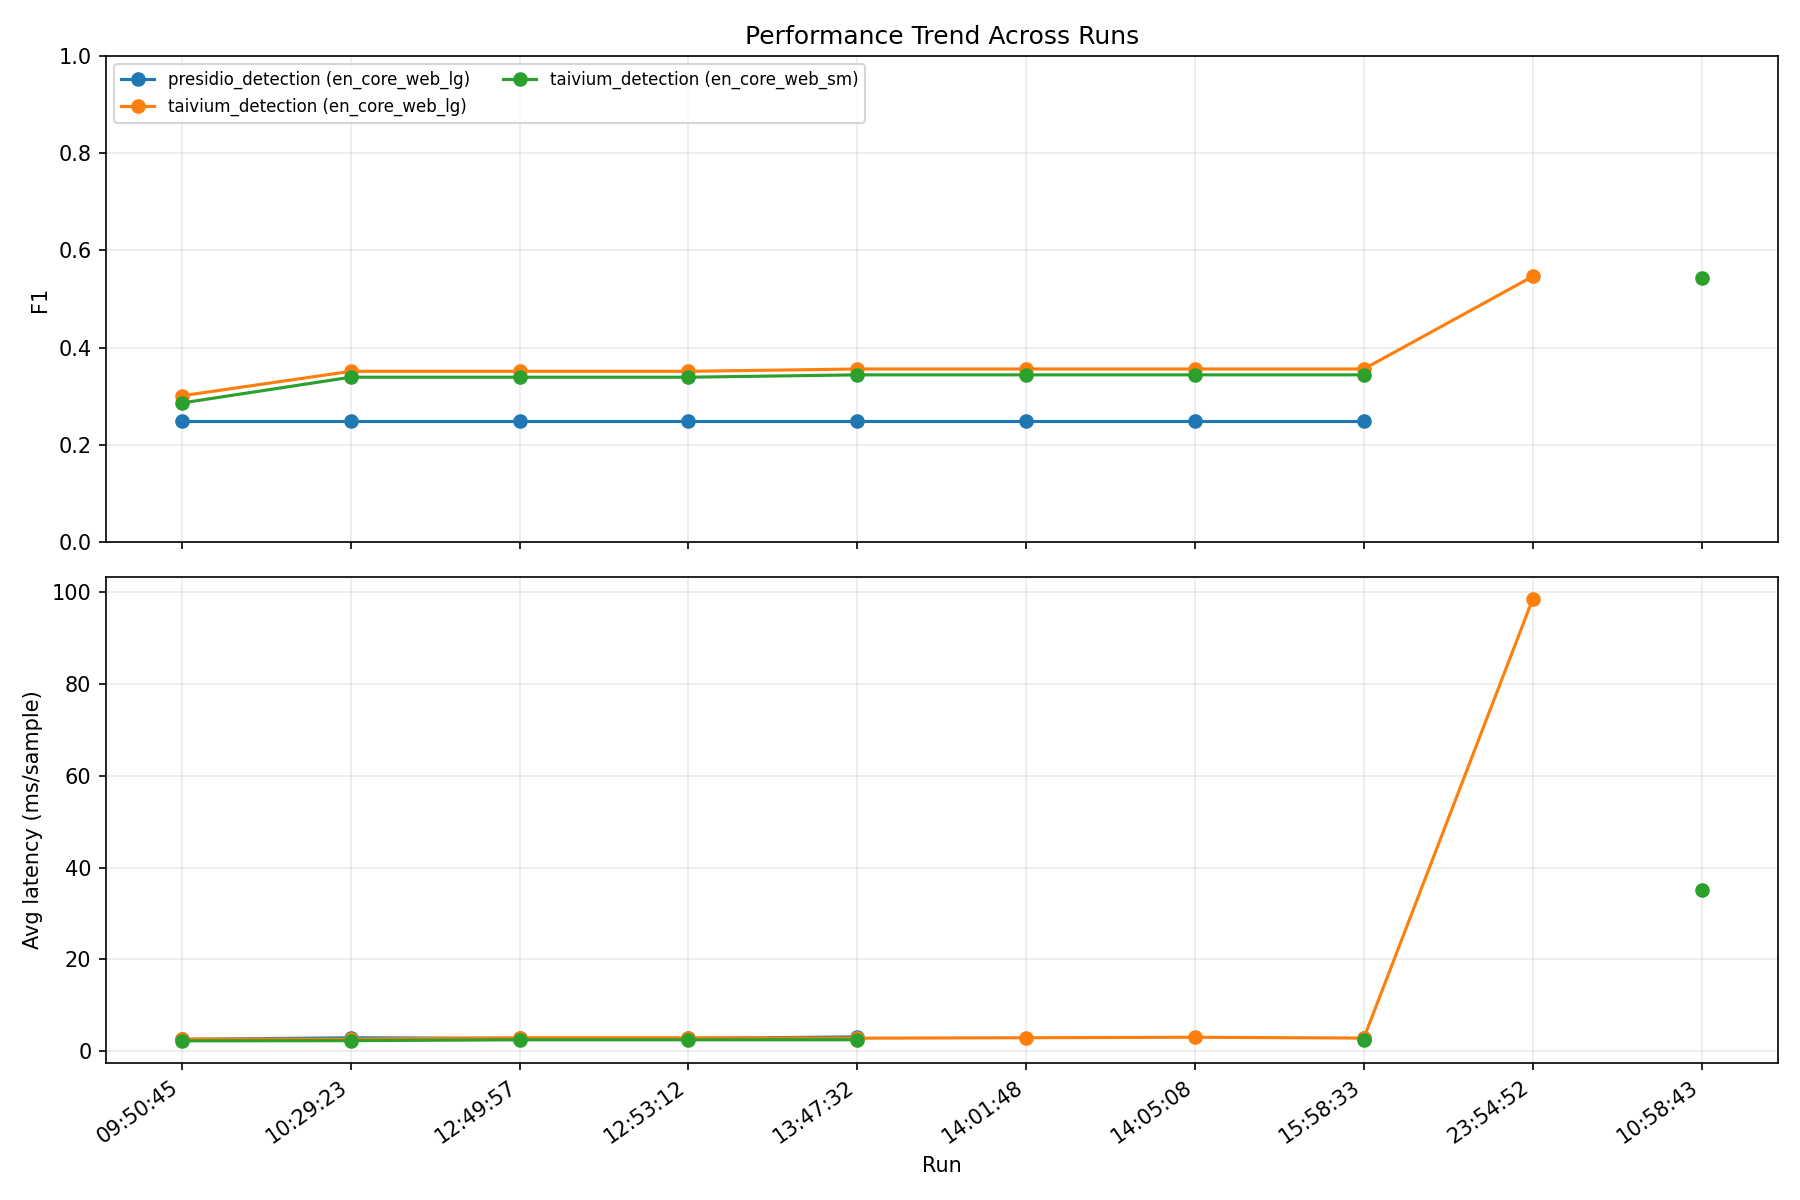
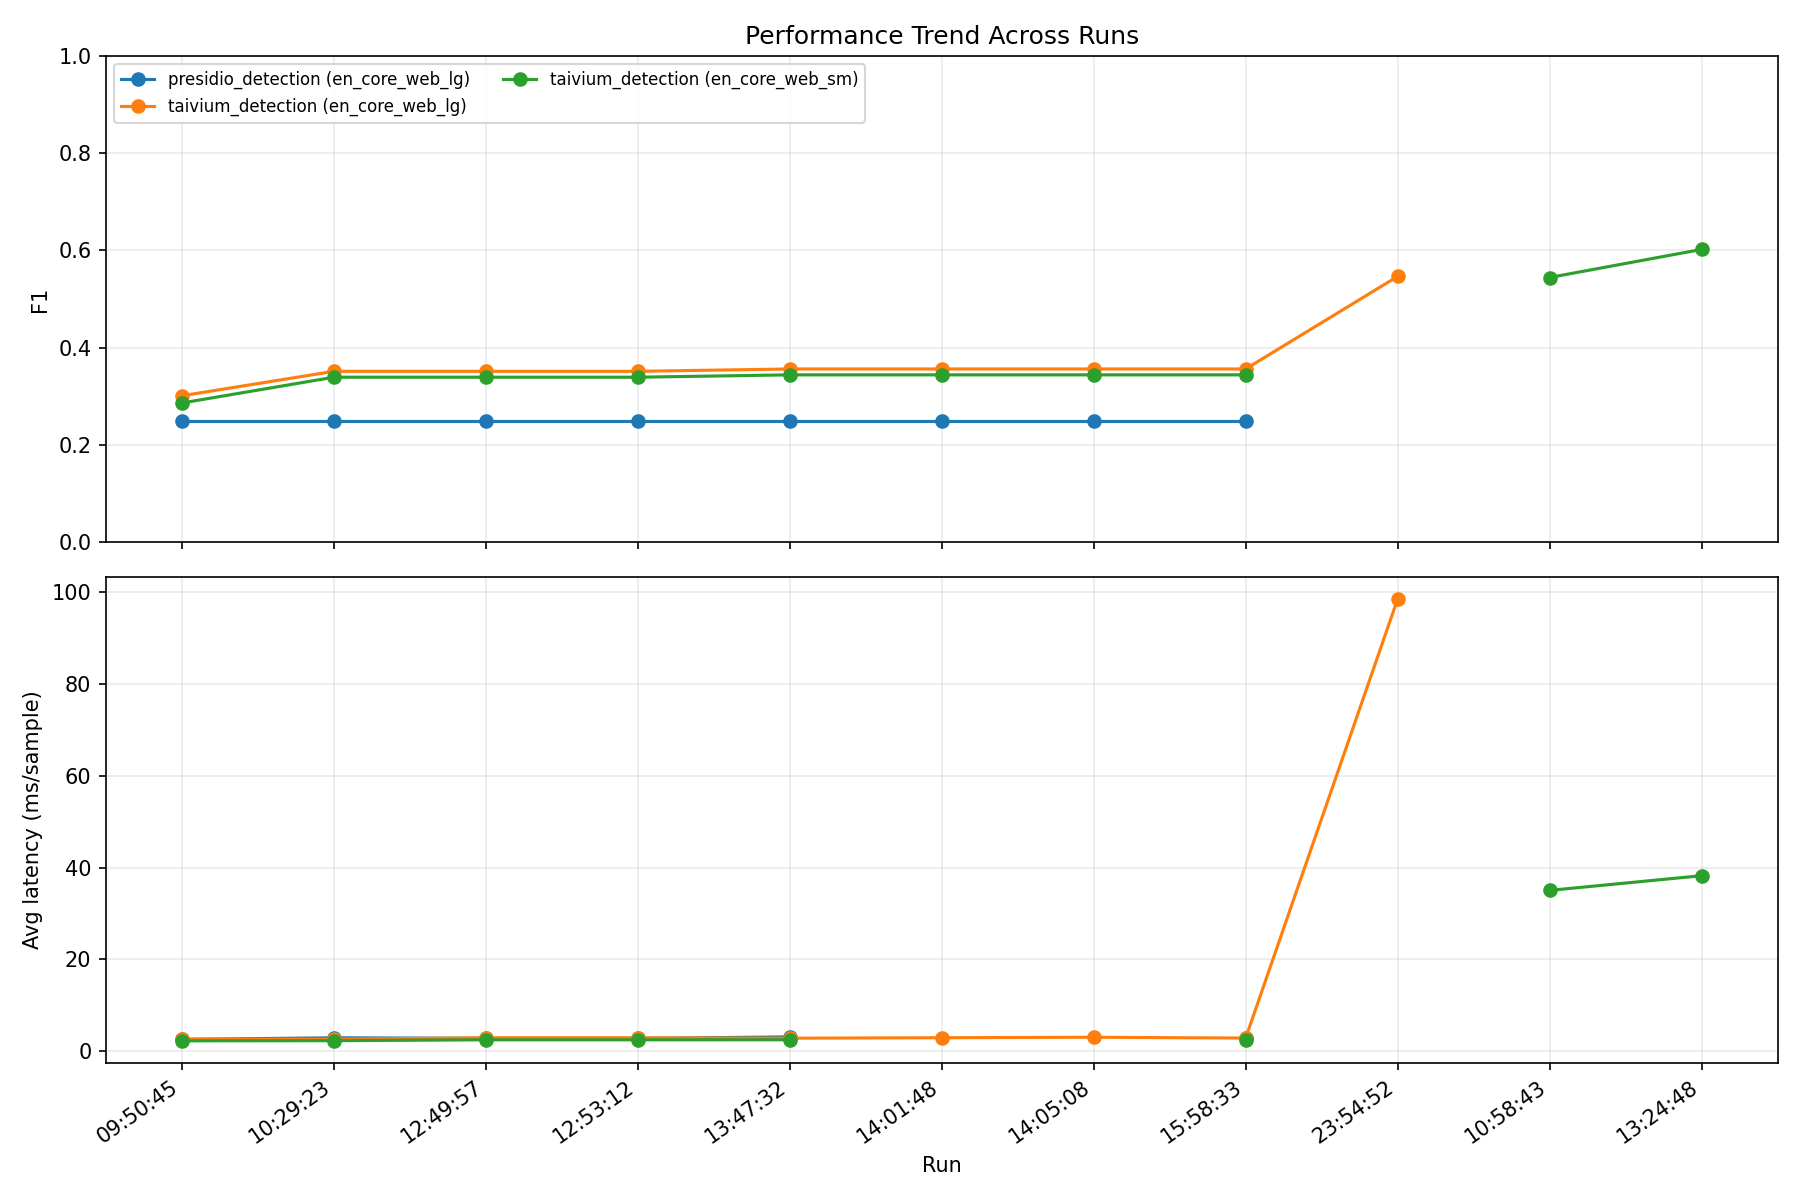
test report

diff --git a/web/index.html b/web/index.html
@@ -49,7 +49,7 @@
   <div class="shell">
     <section class="hero">
       <h1>Taivium Latest Performance Report</h1>
-      <p class="meta">Generated: 2026-06-05 10:58:43 UTC | Dataset: ai4privacy/pii-masking-300k | Profile: privacy</p>      <p class="meta">Hardware: MacBook Pro · Apple M2 Pro · 10-core</p>      <p class="meta">Source delta file: 76ce2256f9aa1b7df01c4409b9158a4d__taivium_detection__en_core_web_sm_delta_matrices.json</p>
+      <p class="meta">Generated: 2026-06-05 13:24:49 UTC | Dataset: ai4privacy/pii-masking-300k | Profile: privacy</p>      <p class="meta">Hardware: MacBook Pro · Apple M2 Pro · 10-core</p>      <p class="meta">Source delta file: 32681cb7d97775e05aba7de0719bd5fc__taivium_detection__en_core_web_sm_delta_matrices.json</p>
     </section>
 
     <section class="panel">
@@ -61,12 +61,12 @@
           </tr>
         </thead>
         <tbody>
-          <tr><td>taivium_detection</td><td>en_core_web_sm</td><td>0.654995</td><td>0.465285</td><td>0.544077</td><td class="neutral">-</td><td>35.035</td><td class="neutral">-</td></tr>
+          <tr><td>taivium_detection</td><td>en_core_web_sm</td><td>0.713640</td><td>0.520338</td><td>0.601849</td><td class="good">+0.0578</td><td>38.234</td><td class="bad">+3.20</td></tr>
         </tbody>
       </table></div>
     </section>
 
-        <section class="panel"><h2>Performance Trend</h2><p class="meta">Historical trend for F1 and timing across runs.</p><div class="trend-grid"><img src="assets/ai4privacy_pii-masking-300k_privacy_performance_trend.png" alt="Performance trend chart" style="width:100%;border:1px solid var(--line);border-radius:10px;" /><div><h3>Last 5 Runs (F1)</h3><div class="table-wrap"><table class="trend-mini"><thead><tr><th>Run</th><th>taivium_detection (en_core_web_sm)</th></tr></thead><tbody><tr><th>2026-06-04 10:29:23 UTC</th><td>0.3389</td></tr><tr><th>2026-06-04 13:47:32 UTC</th><td>0.3437</td></tr><tr><th>2026-06-04 15:58:33 UTC</th><td>0.3437</td></tr><tr><th>2026-06-04 23:54:52 UTC</th><td>-</td></tr><tr><th>2026-06-05 10:58:43 UTC</th><td>0.5441</td></tr></tbody></table></div></div></div></section>
+        <section class="panel"><h2>Performance Trend</h2><p class="meta">Historical trend for F1 and timing across runs.</p><div class="trend-grid"><img src="assets/ai4privacy_pii-masking-300k_privacy_performance_trend.png" alt="Performance trend chart" style="width:100%;border:1px solid var(--line);border-radius:10px;" /><div><h3>Last 5 Runs (F1)</h3><div class="table-wrap"><table class="trend-mini"><thead><tr><th>Run</th><th>taivium_detection (en_core_web_sm)</th></tr></thead><tbody><tr><th>2026-06-04 13:47:32 UTC</th><td>0.3437</td></tr><tr><th>2026-06-04 15:58:33 UTC</th><td>0.3437</td></tr><tr><th>2026-06-04 23:54:52 UTC</th><td>-</td></tr><tr><th>2026-06-05 10:58:43 UTC</th><td>0.5441</td></tr><tr><th>2026-06-05 13:24:48 UTC</th><td>0.6018</td></tr></tbody></table></div></div></div></section>
     <section class="panel"><h2>Dataset Distribution</h2><p class="meta">Label distribution for ai4privacy/pii-masking-300k (privacy profile)</p><div style="text-align:center;"><img src="assets/ai4privacy_pii-masking-300k_privacy_label_distribution.png" alt="Label distribution chart" style="max-width:100%;height:auto;border:1px solid var(--line);border-radius:10px;" /></div></section>
     <section class="panel">
       <h2>Comparison Matrices</h2>
